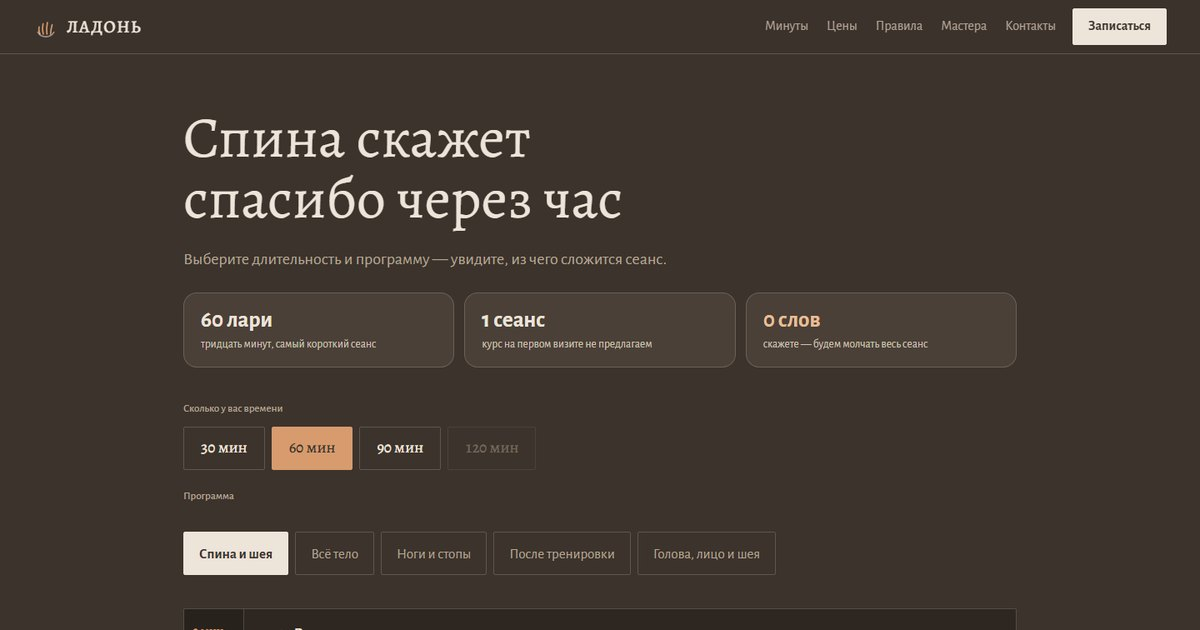
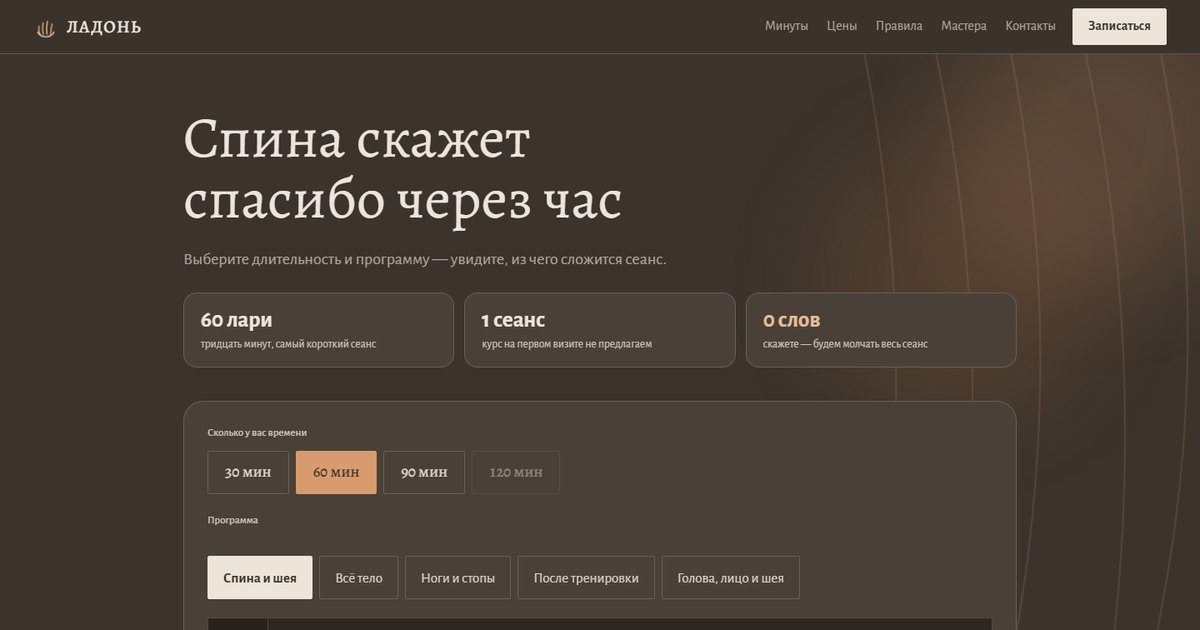
Превью Ладони

diff --git a/ladon/index.html b/ladon/index.html
@@ -84,19 +84,28 @@ button,input,select,textarea{font:inherit;color:inherit}
 .mark .pl{stroke:var(--light);opacity:.55}
 .mark__txt{line-height:1}
 @media (prefers-reduced-motion:no-preference){
-  .mark .ln{stroke-dasharray:22;stroke-dashoffset:22;animation:drawLine .9s ease forwards}
-  .mark .ln2{animation-delay:.12s}
-  .mark .ln3{animation-delay:.24s}
-  .mark .ln4{animation-delay:.36s}
-  .mark .pl{stroke-dasharray:34;stroke-dashoffset:34;animation:drawLine 1s ease .5s forwards}
-  .mark .ln{transition:transform .45s ease}
-  .mark:hover .ln1{transform:rotate(-7deg)}
-  .mark:hover .ln2{transform:rotate(-3deg)}
-  .mark:hover .ln3{transform:rotate(3deg)}
-  .mark:hover .ln4{transform:rotate(7deg)}
-  .mark .ln{transform-origin:17px 27px}
+  /* Логотип 23.09: линии не просто прорисовываются, а продолжают жить —
+     тихо дышат по очереди, будто ладонь дышит вместе с человеком.
+     Наведение по-прежнему разводит их веером. */
+  .mark .ln{stroke-dasharray:22;stroke-dashoffset:22;transform-origin:17px 27px;
+    animation:drawLine .9s ease forwards, breathLine 4.2s ease-in-out .9s infinite;
+    transition:transform .45s ease}
+  .mark .ln2{animation-delay:.12s,1.15s}
+  .mark .ln3{animation-delay:.24s,1.4s}
+  .mark .ln4{animation-delay:.36s,1.65s}
+  .mark .pl{stroke-dasharray:34;stroke-dashoffset:34;
+    animation:drawLine 1s ease .5s forwards, glowPalm 4.2s ease-in-out 1.5s infinite}
+  .mark:hover .ln1{transform:rotate(-7deg) translateY(-1px)}
+  .mark:hover .ln2{transform:rotate(-3deg) translateY(-1px)}
+  .mark:hover .ln3{transform:rotate(3deg) translateY(-1px)}
+  .mark:hover .ln4{transform:rotate(7deg) translateY(-1px)}
+  .mark:hover .ln{animation-play-state:running,paused}
 }
 @keyframes drawLine{to{stroke-dashoffset:0}}
+/* «Дыхание»: линия чуть подрастает и светлеет, потом возвращается. */
+@keyframes breathLine{0%,100%{opacity:.75;transform:scaleY(1)}
+  50%{opacity:1;transform:scaleY(1.09)}}
+@keyframes glowPalm{0%,100%{opacity:.45}50%{opacity:.8}}
 .nav{display:none;gap:22px;margin-left:auto;font-size:16px;color:var(--dust)}
 .nav a{text-decoration:none}
 .nav a:hover{color:var(--light)}
@@ -112,12 +121,49 @@ h3{font-family:var(--sans);font-weight:700;font-size:18px;line-height:1.35}
 .lbl{font-weight:500;font-size:13px;color:var(--dust)}
 
 /* ============ 1. герой ============ */
-.hero{padding:clamp(30px,4.5vw,64px) 0 0}
+/* Правка 23.09: вместо пустоты справа — тёплый живой слой: тёплые пятна
+   света, три струйки пара и «волокна дерева», которые медленно дышат.
+   Всё нарисовано, без единой фотографии — в духе этой работы. */
+.hero{position:relative;overflow:hidden;padding:clamp(30px,4.5vw,64px) 0 0}
+.warmth{position:absolute;inset:0;z-index:-1;pointer-events:none;overflow:hidden}
+.warmth .glow{position:absolute;border-radius:50%;filter:blur(60px)}
+.warmth .g1{width:360px;height:360px;right:-60px;top:-80px;background:rgba(215,155,110,.22)}
+.warmth .g2{width:300px;height:300px;right:140px;top:120px;background:rgba(196,128,80,.16)}
+.warmth .grain{position:absolute;right:0;top:0;width:min(42vw,430px);height:100%;opacity:.5}
+.warmth .grain path{fill:none;stroke:rgba(215,155,110,.3);stroke-width:1.2}
+.warmth .steam{position:absolute;bottom:-40px;width:8px;height:120px;border-radius:999px;
+  background:linear-gradient(180deg,rgba(237,228,218,0),rgba(237,228,218,.22),rgba(237,228,218,0));
+  filter:blur(6px);opacity:0}
+.warmth .s1{right:26%}
+.warmth .s2{right:18%}
+.warmth .s3{right:10%}
+@media (prefers-reduced-motion:no-preference){
+  .warmth .glow{animation:breathe 9s ease-in-out infinite}
+  .warmth .g2{animation-delay:-4s}
+  .warmth .grain{animation:sway 14s ease-in-out infinite}
+  .warmth .steam{animation:rise 9s ease-in-out infinite}
+  .warmth .s2{animation-delay:-3s}
+  .warmth .s3{animation-delay:-6s}
+}
+@keyframes breathe{0%,100%{transform:scale(1);opacity:.85}50%{transform:scale(1.12);opacity:1}}
+@keyframes sway{0%,100%{transform:translateX(0)}50%{transform:translateX(-10px)}}
+@keyframes rise{0%{transform:translateY(0) scaleX(1);opacity:0}
+  18%{opacity:.7}
+  100%{transform:translateY(-260px) scaleX(1.5);opacity:0}}
+@media (max-width:760px){.warmth .grain{width:56vw;opacity:.35}.warmth .steam{display:none}}
 h1{font-family:var(--serif);font-weight:400;font-size:clamp(30px,4.8vw,70px);line-height:1.06;max-width:15ch}
 .hero p{margin-top:20px;font-size:clamp(17px,1.4vw,20px);line-height:1.55;max-width:60ch;color:var(--dust)}
 
 /* выбор */
-.pick{margin-top:clamp(26px,3vw,40px)}
+/* Правка 23.09: выбор времени, программа и раскладка — в одной скруглённой
+   рамке. Раньше это были три отдельных куска и они распадались взглядом. */
+.panel{margin-top:clamp(26px,3vw,40px);background:var(--cocoa-l);border:1px solid var(--line);
+  border-radius:24px;padding:clamp(18px,2.4vw,28px)}
+.pick{margin-top:0}
+/* Внутри светлой рамки прежние тона давали 4,2:1 — осветляем. */
+.panel .lbl{color:#CFC4B6}
+.panel .prog,.panel .min{color:#EDE4DA}
+.panel .prog[aria-pressed="false"],.panel .min[aria-pressed="false"]{color:#DED3C5}
 .pick fieldset{border:0;padding:0;margin:0}
 .pick legend{padding:0;margin-bottom:10px}
 .mins{display:flex;flex-wrap:wrap;gap:8px}
@@ -137,7 +183,7 @@ h1{font-family:var(--serif);font-weight:400;font-size:clamp(30px,4.8vw,70px);lin
 
 /* ============ линейка минут ============ */
 /* Правка 22.09: линейка скруглена, строки отзываются на наведение. */
-.ruler{display:grid;grid-template-columns:72px minmax(0,1fr);gap:0;margin-top:clamp(26px,3vw,40px);
+.ruler{display:grid;grid-template-columns:72px minmax(0,1fr);gap:0;margin-top:22px;
   border-radius:20px;overflow:hidden;
   background:var(--cocoa-d);border:1px solid var(--line);border-radius:2px;overflow:hidden}
 @media (max-width:640px){.ruler{grid-template-columns:54px minmax(0,1fr)}}
@@ -360,6 +406,17 @@ fieldset.f{border:0;padding:0;margin:0}
 <main id="top">
   <!-- ============ 1. герой и раскладка ============ -->
   <section class="hero" aria-labelledby="h1">
+    <div class="warmth" aria-hidden="true">
+      <span class="steam s1"></span><span class="steam s2"></span><span class="steam s3"></span>
+      <span class="glow g1"></span><span class="glow g2"></span>
+      <svg class="grain" viewBox="0 0 220 260" preserveAspectRatio="none">
+        <path d="M14 0c26 52 26 104 0 156s-26 104 0 156" />
+        <path d="M58 0c30 56 30 112 0 168s-30 112 0 168" />
+        <path d="M104 0c24 48 24 96 0 144s-24 96 0 144" />
+        <path d="M150 0c32 60 32 120 0 180s-32 120 0 180" />
+        <path d="M196 0c22 44 22 88 0 132s-22 88 0 132" />
+      </svg>
+    </div>
     <div class="col">
       <h1 id="h1">Спина скажет спасибо через час</h1>
       <p>Выберите длительность и программу — увидите, из чего сложится сеанс.</p>
@@ -370,6 +427,7 @@ fieldset.f{border:0;padding:0;margin:0}
         <div class="tr-card"><b class="is-clay">0 слов</b><span>скажете — будем молчать весь сеанс</span></div>
       </div>
 
+      <div class="panel">
       <div class="pick" id="minuty">
         <h2 class="sr">Раскладка сеанса по минутам</h2>
         <fieldset>
@@ -383,6 +441,7 @@ fieldset.f{border:0;padding:0;margin:0}
       </div>
 
       <div class="ruler fade" id="ruler" aria-live="polite"></div>
+      </div>
 
       <!-- версия без JavaScript -->
       <ul class="plain-progs">
